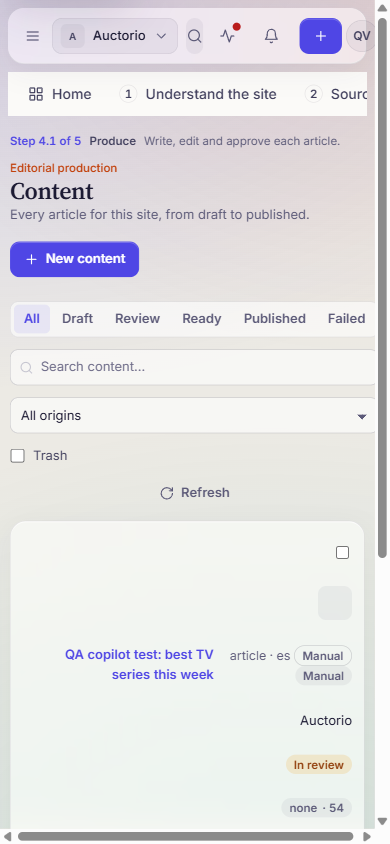
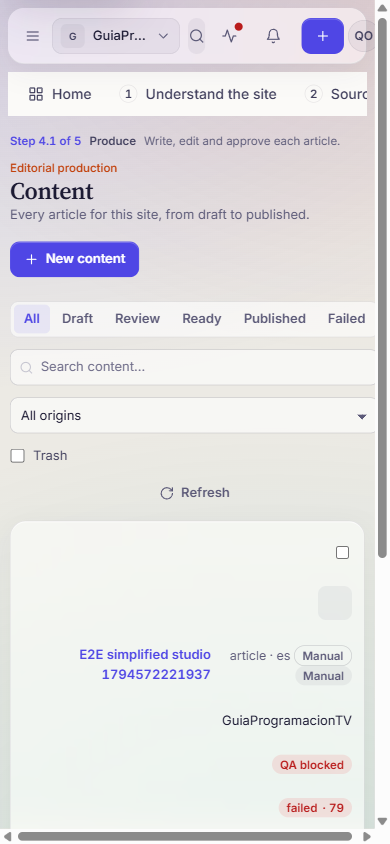
docs(studio): STUDIO-01 rerun on clean prod-like local DB

diff --git a/docs/studio-rebuild/runtime/confirmed-vs-unknown.md b/docs/studio-rebuild/runtime/confirmed-vs-unknown.md
@@ -1,31 +1,30 @@
-# Confirmed vs unknown — STUDIO-01 (2026-11-13)
+# Confirmed vs unknown — STUDIO-01 (clean-DB rerun, 2026-11-13)
 
-## e2e (`npm run test:e2e`, Chrome from `CHROME_BIN`, base http://localhost:4420, QA account, `E2E_ALLOW_REAL_PUBLISH` NOT set)
-Result: **8 passed, 12 failed, 1 skipped, 5 did not run (5.4 min)**. Nothing was published.
-Specs are written for the production tenant (sites `guiatv-editorial`/`tecnoria-main`, >=2 sites, real providers), so most failures are CURRENT RUNTIME HYPOTHESIS "environment/data mismatch", not proven regressions. Not investigated one by one:
+## Environment rule (project memory)
+Local must be a clean clone of production: empty DB, same migrations, API + workers + Redis. Reset done as described in db-state-matrix.md. Remaining gap vs prod: AI provider is `mock` (no real keys available).
 
-| Failure | Likely cause (unverified) |
+## e2e on the clean DB (`E2E_ALLOW_REAL_PUBLISH` unset, nothing published)
+Run history: dirty DB 8 passed/12 failed; clean DB with no sites 0 passed (login impossible, see below); clean DB + 2 provisioned sites + workers: **16 passed, 7 failed, 3 skipped (2.5 min)**.
+
+| Remaining failure | Cause |
 |---|---|
-| studio-workflow login/site-switching/content (3) | QA tenant has 2 sites but not the expected keys; 401 on site switch; spec stale vs new shell |
-| guiatv-seo 1 (+5 did not run) | site `guiatv-editorial` does not exist in local DB |
-| autopilot health | needs a worker named `*automation*`; only the API process was started (no worker) |
-| autopilot source->project | depends on worker/provider; no worker running |
-| connection-installer 1 | expects connector `auctorio_feed`; metadata returned only generic_rest, generic_webhook, x_oauth, instagram_oauth although code references `auctorio_feed` (src/studio/connectors/registry.ts) — **worth checking, possible real gap** |
-| connection-installer 2, 3 | 2.0 min timeouts in wizard flow |
-| production-journey (2) | expected status 502/400, got 200/202 (mock provider) |
-| notifications-links 2 | plan table has 0 rows for the active site |
+| guiatv-seo 2.1 "plan error: EDITORIAL_PLAN_STRUCTURED_OUTPUT_INVALID" (+ 2.2/2.3 skipped, 3 and 4 fail as consequence) | mock AI provider cannot produce structured plan output; needs real provider |
+| production-journey journey / provider failure (2) | spec expects a real provider failing with 502/400; mock returns 200/202 |
+| autopilot source->project, irreparable (skipped) | depends on AI output from a real provider |
+| autopilot health | spec expects a worker whose name contains "automation"; the live health lists `connection`, `control`, `discovery`, `image`, … — the automation worker registers as `control`. Likely a **stale spec** or a naming bug (unverified) |
 
-## CONFIRMED CODE / RUNTIME
-Typecheck + build pass; unit tests 465/467 (2 flaky); 24 screenshots, all routes 200, no console errors; all permission guards on publish/credential/automation endpoints present (see network-request-map.md).
+Fixed by the clean setup (were failing before): login, site switching, connector installer, notifications, content workflow.
 
-## UNKNOWN
-- Whether any of the 12 e2e failures is a product regression (needs worker running + seeded GuiaTV site).
-- Role set of the QA account; guards of bulk-approve and social-connection endpoints.
-- 16 unlinked connector installations: intended or leftovers.
-- Real publishing readiness: 0 publishing accounts and 0 social connections locally, so PRODUCTION READINESS stays BLOCKED.
-- Full CTA handler -> DB transition trace: not done (static endpoint map only).
+## Unit tests (`node --test --test-force-exit dist/tests/*.test.js`, separate DB `content_ai_test`)
+465/467 in each of two full runs, but the 2 failures were **different tests each run** (run 1: automation-recovery, site-strategy; run 2: site-onboarding ONB-01, phase5 duplicate enqueuePublication) and all pass in isolation => parallel-file flakiness on a shared DB, not deterministic. `npm test` itself hangs (open handle after `autopilot-planner.test.ts`); not fixed.
+
+## CONFIRMED
+Typecheck/build pass; 24 screenshots re-captured on the clean DB: all 8 routes load at 1440/1024/390, no horizontal overflow, zero console errors, zero HTTP >=400. Permission guards on publish/credential/automation endpoints exist (network-request-map.md).
+
+## UNKNOWN / not done
+- Behaviour with a real AI provider and real destination (0 publishing accounts, 0 social connections) => PRODUCTION READINESS BLOCKED.
+- Full CTA handler -> DB transition trace; guards of bulk-approve and social-connection endpoints; QA role set.
+- Visual/a11y review of the 24 images beyond Overview.
 
 ## Hand-off
-- STUDIO-02: sites + connectors metadata above; local DB has no publishing account.
-- STUDIO-03: modes: GuiaProgramacionTV `assisted`, Auctorio `manual`; autoApprove/autoPublish both false.
-- STUDIO-04: not covered.
+STUDIO-02: first-site provisioning gap (zero-site login) and 2 sites above. STUDIO-03: all sites start in `manual`. STUDIO-04: not covered.

diff --git a/docs/studio-rebuild/runtime/STUDIO-01-baseline.md b/docs/studio-rebuild/runtime/STUDIO-01-baseline.md
@@ -15,8 +15,8 @@ Read-only audit. No migrations, publications, token changes or DB writes were ma
 |---|---|
 | `npm run typecheck` | PASS (no output, tsc clean) |
 | `npm run build:studio` | PASS; 1 budget warning: `overview-page.component.ts` CSS 7.51 kB vs 4.00 kB |
-| `npm test` | PARTIAL: plain `npm test` HUNG (no output for 29 min after `tests/autopilot-planner.test.ts`; open handle, stopped). Re-run with `node --test --test-timeout=60000 --test-force-exit dist/tests/*.test.js` on the local disposable DB: **465/467 pass**. Both failures are flaky: `automation-recovery` "live recovery schedules publications" (2!==1) passes in isolation; `site-strategy` "concurrent strategy saves" failed once and passed once in isolation (race). Not fixed |
-| `npm run test:e2e` | PARTIAL: 8 passed / 12 failed / 5 not run against local Studio, no real publish; see confirmed-vs-unknown.md |
+| `npm test` | PARTIAL: plain `npm test` hangs (open handle); with `--test-force-exit` on a separate DB 465/467, failures differ per run (flaky). Details in confirmed-vs-unknown.md |
+| `npm run test:e2e` | PARTIAL: clean DB + 2 sites + workers: 16 passed / 7 failed / 3 skipped; remaining failures need a real AI provider or are stale specs |
 | Screenshots 1440/1024/390 | PASS (captured): 24 files in `runtime/screens/` (an earlier attempt failed only because the dev servers had been stopped; those error-page captures were discarded). See screenshot-manifest.md. Visual/a11y review limited to Overview 1440 |
 | Skills ui-ux-pro-max / unslop | Listed as installed; not read (no UI change in this milestone) |
 
@@ -27,7 +27,7 @@ Read-only audit. No migrations, publications, token changes or DB writes were ma
 `session/me`, `v2/admin/me`, `v2/operations` (x2), `v2/overview`, `v2/automation?siteId=`, `v2/site-intelligence/{site}`, `v2/editorial-plans?siteId=` + 3x `editorial-plans/{id}`, `v2/events/stream` (SSE), `v2/notifications`. Studio proxies through `/studio/api/backend/...`.
 
 ## Sanitized state (via authenticated BFF path)
-> Session identity: the built-in browser was signed in as the local QA account `qa.visual@auctorio.localhost`, NOT `manuelxgon@gmail.com`. Everything below reflects that account's tenant view; re-run as the owner account before trusting it.
+> Superseded: the first-pass numbers below came from a dirty local DB; see db-state-matrix.md and confirmed-vs-unknown.md for the clean-DB rerun.
 
 - Sites: `GuiaProgramacionTV` (d8e75bac…), `Auctorio` (f76991c2…).
 - Automation for GuiaProgramacionTV: `enabled=true`, `mode=assisted`.

diff --git a/docs/studio-rebuild/runtime/db-state-matrix.md b/docs/studio-rebuild/runtime/db-state-matrix.md
@@ -1,11 +1,13 @@
-# Sanitized state matrix — STUDIO-01 (read via authenticated API, QA account)
+# Sanitized state matrix — STUDIO-01 (clean-DB rerun, 2026-11-13)
 
-| Site | Mode | enabled | state | autoApprove | autoPublish | circuitOpen |
-|---|---|---|---|---|---|---|
-| GuiaProgramacionTV (d8e75bac) | assisted | true | active | false | false | false |
-| Auctorio (f76991c2) | manual | false | active | false | false | false |
+Local DB was reset from zero (`prisma migrate reset`, 34 migrations, Redis flushed), then bootstrapped like an operator would: tenant `Auctorio`, one owner/admin QA user, two sites via `scripts/provision-linked-tenants.ts`. API + 9 workers + Studio running. AI provider is the `.env` mock (no real keys).
 
-- `publishing-accounts`: **0 rows**. `social-connections`: **0 rows**. => no destination can publish for either site; Overview shows "No destinations connected" for Auctorio.
-- `connector-installations`: 17 (all kind `website`), 1 linked to a site (GuiaProgramacionTV), 16 unlinked; the API list does not expose a status field (read as `undefined`).
-- Session `admin/me` exposes `isPlatformAdmin`; the QA account's role set was not read.
-- No secrets, credential refs or cookies read. No writes except resetting the password of the local QA account (disposable).
+| Site | key | Mode | enabled | autoPublish |
+|---|---|---|---|---|
+| GuiaProgramacionTV | guiatv-editorial | manual | true | false |
+| Tecnoria (fictitious `tecnoria.example.test`) | tecnoria-main | manual | false | false |
+| E2E Webhook Target (created by the e2e run itself) | httpbin-org-b5b8dc | manual | false | false |
+
+- publishing-accounts 0, social-connections 0, connector-installations 2 (created by e2e). No secrets read.
+- Finding (CONFIRMED CODE + runtime): a brand-new tenant with **zero sites cannot log in with a password** — `completeGlobalAccountLogin` throws `user_not_authorized` when `sites.length === 0` (src/studio/auth.ts ~1866). The first site must be provisioned by an operator script; there is no self-serve first-site path.
+- The earlier dirty-DB snapshot (17 orphan connector installations, GuiaTV `assisted`) is obsolete; do not use it.

diff --git a/docs/studio-rebuild/runtime/screenshot-manifest.md b/docs/studio-rebuild/runtime/screenshot-manifest.md
@@ -1,6 +1,6 @@
 # Screenshot manifest — STUDIO-01 (2026-11-13)
 
-Captured with Playwright MCP, logged in as local QA account, Studio http://localhost:4420, HEAD `1961e36`.
+Captured with Playwright MCP on the CLEAN rebuilt local DB (see db-state-matrix.md), logged in as the local QA account, Studio http://localhost:4420, HEAD `1961e36`. Re-captured after the DB reset; the first set (dirty DB) was overwritten.
 Files: `runtime/screens/<route>-<width>.png` (24 files). Routes x widths: overview, site-intelligence, sources, editorial-plan, content, calendar, automation, connections x 1440x900, 1024x768, 390x844.
 All 24 landed on their own route (no redirect), every API call 200, zero console errors.
 
@@ -9,6 +9,5 @@ All 24 landed on their own route (no redirect), every API call 200, zero console
 - `10-glass-overview-1440.jpg` (archived): full left sidebar nav (Workspace/Editorial/Intelligence/Automation/Distribution groups), 4 KPI tiles, "Destinations" panel.
 - `overview-1440.png` (live): top bar + numbered step tabs (Home / Understand the site / Sources / Plan / Produce / Publish), a contextual sidebar with only "Overview", an Assistant (copilot) docked left, 5 KPI tiles, "Today" + "Get started" checklist.
 - Verdict: **archived screenshots 01-16 are OUTDATED for Overview/shell** (navigation model changed); not re-compared pixel by pixel for the other 15 files.
-- Live active site differs per session: the Playwright session opened on site `Auctorio` (manual, disabled); the earlier built-in-browser session was on `GuiaProgramacionTV`. Site selector is per-session state.
 - At 390 the copilot is not loaded (no `copilot/*` calls), at 1024/1440 it is.
 - Visual/a11y review of the 24 images was not done beyond Overview 1440.
